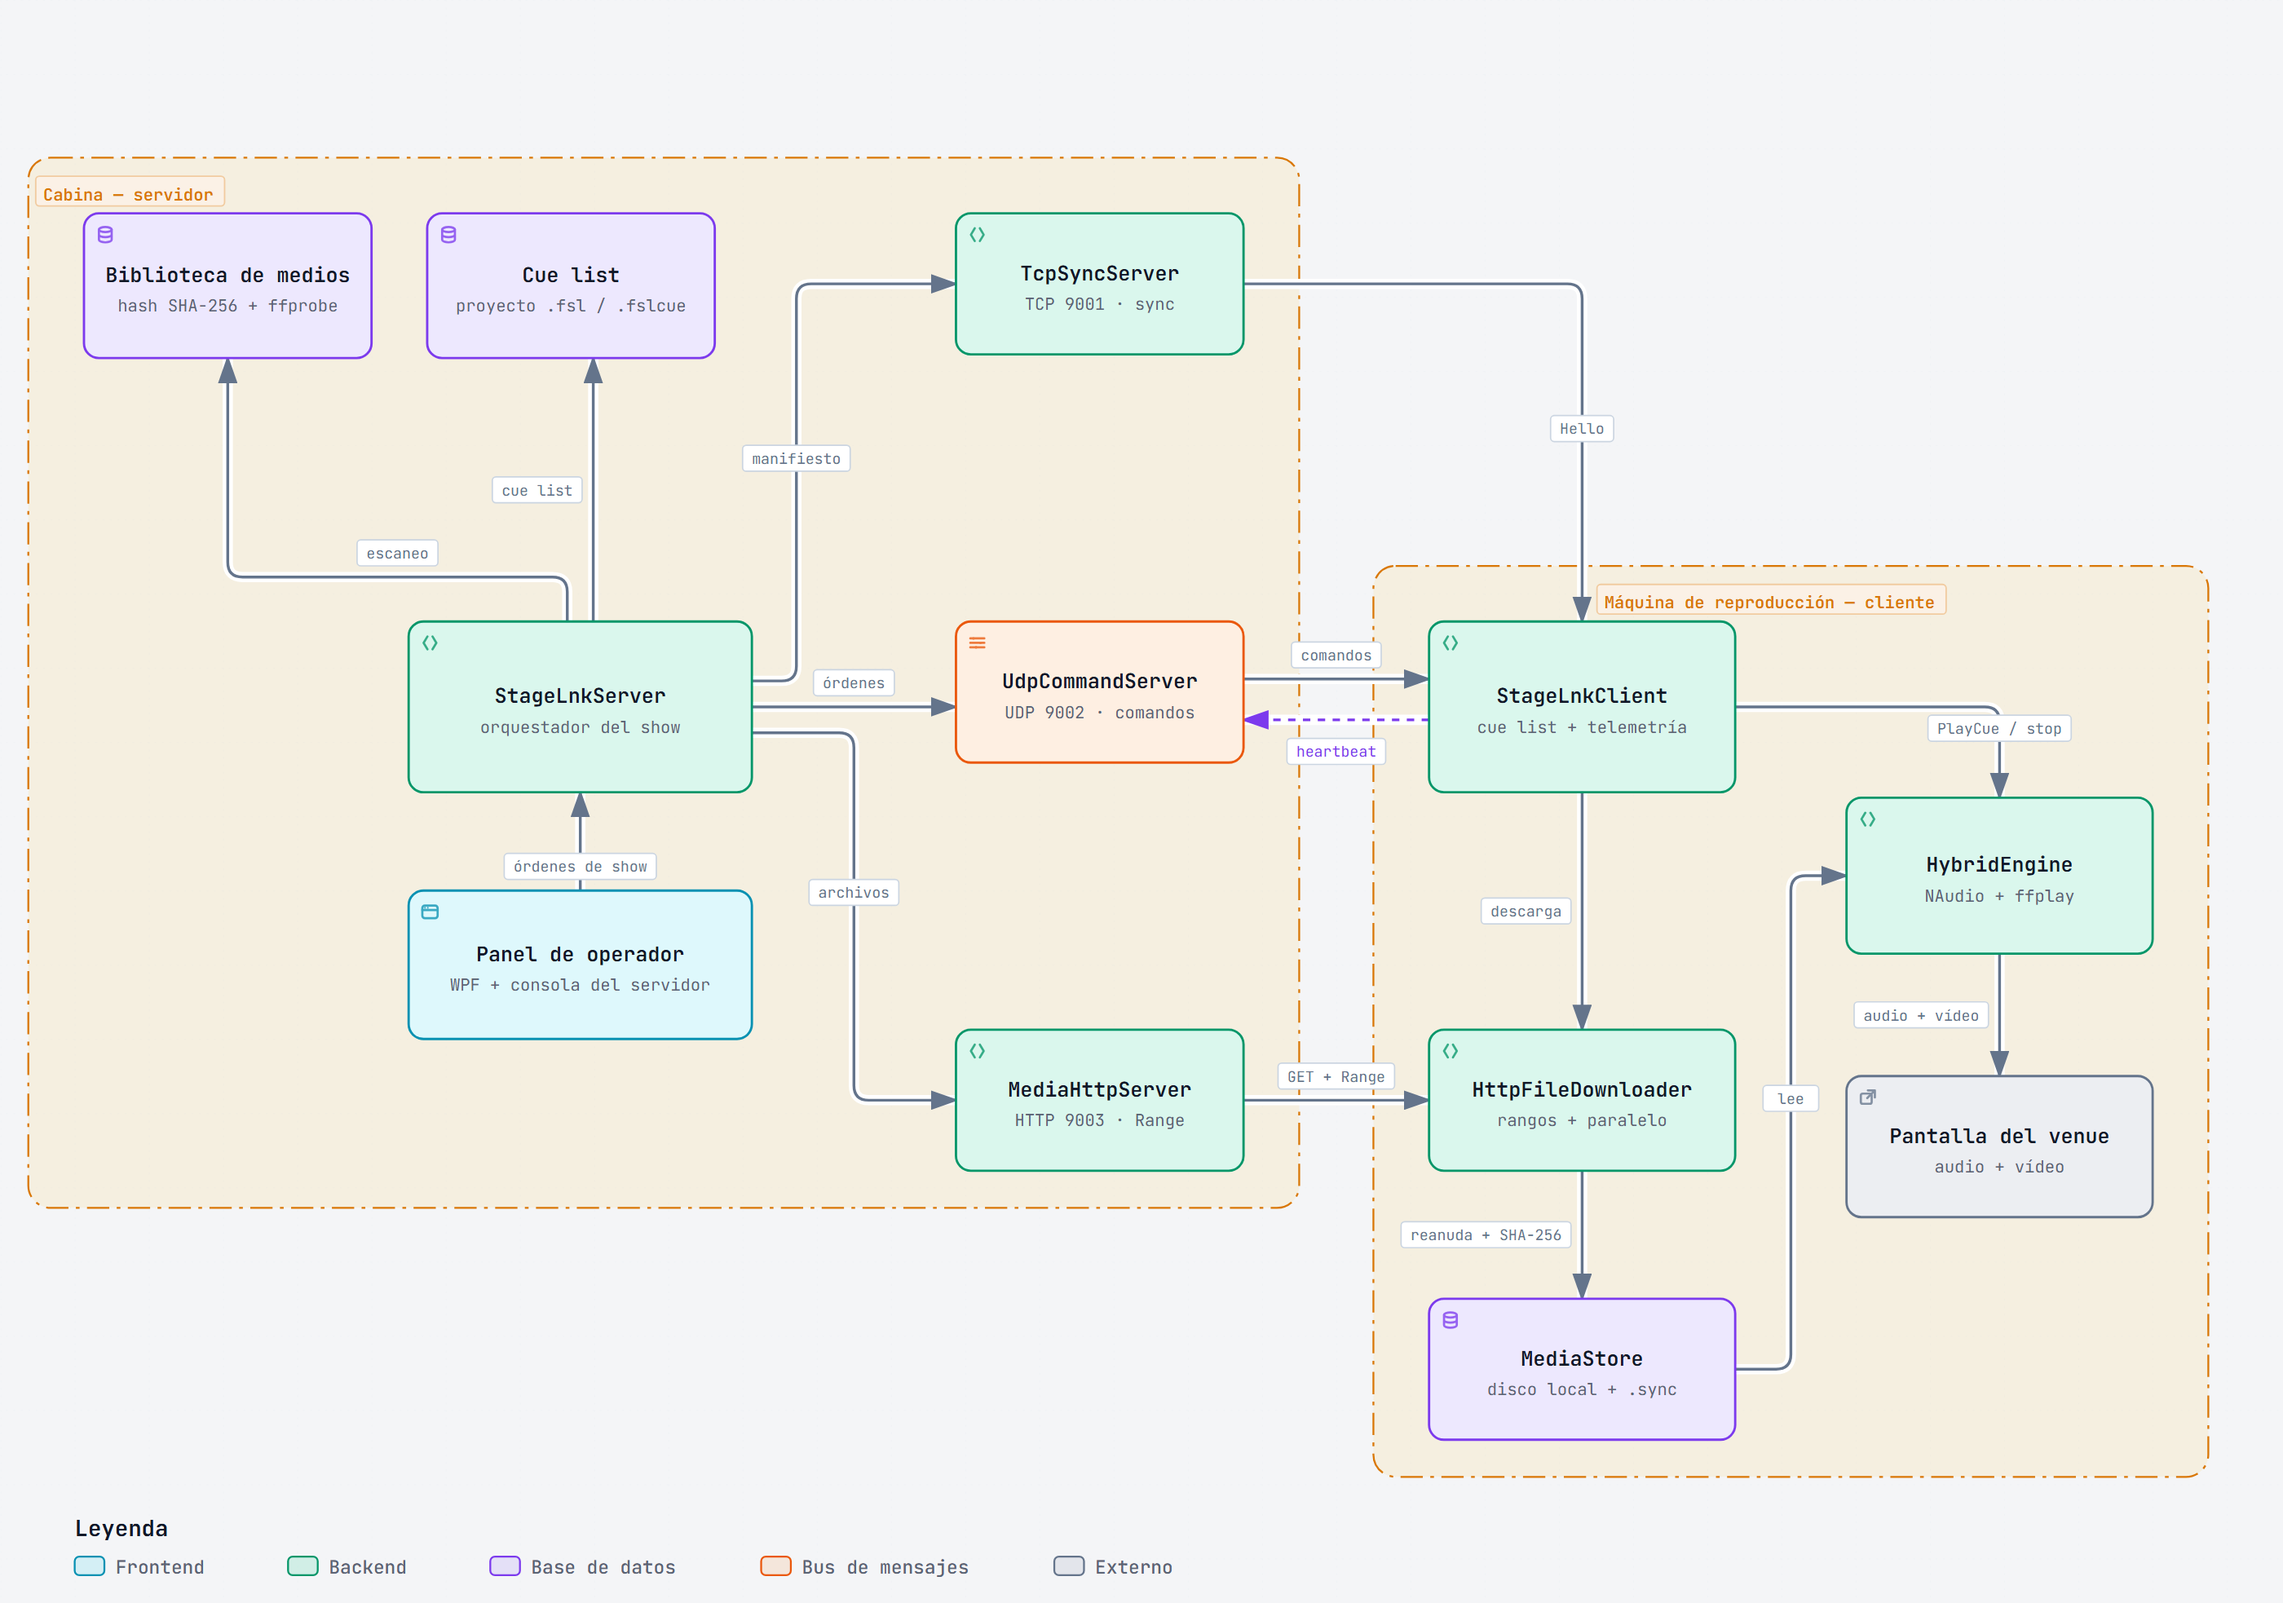
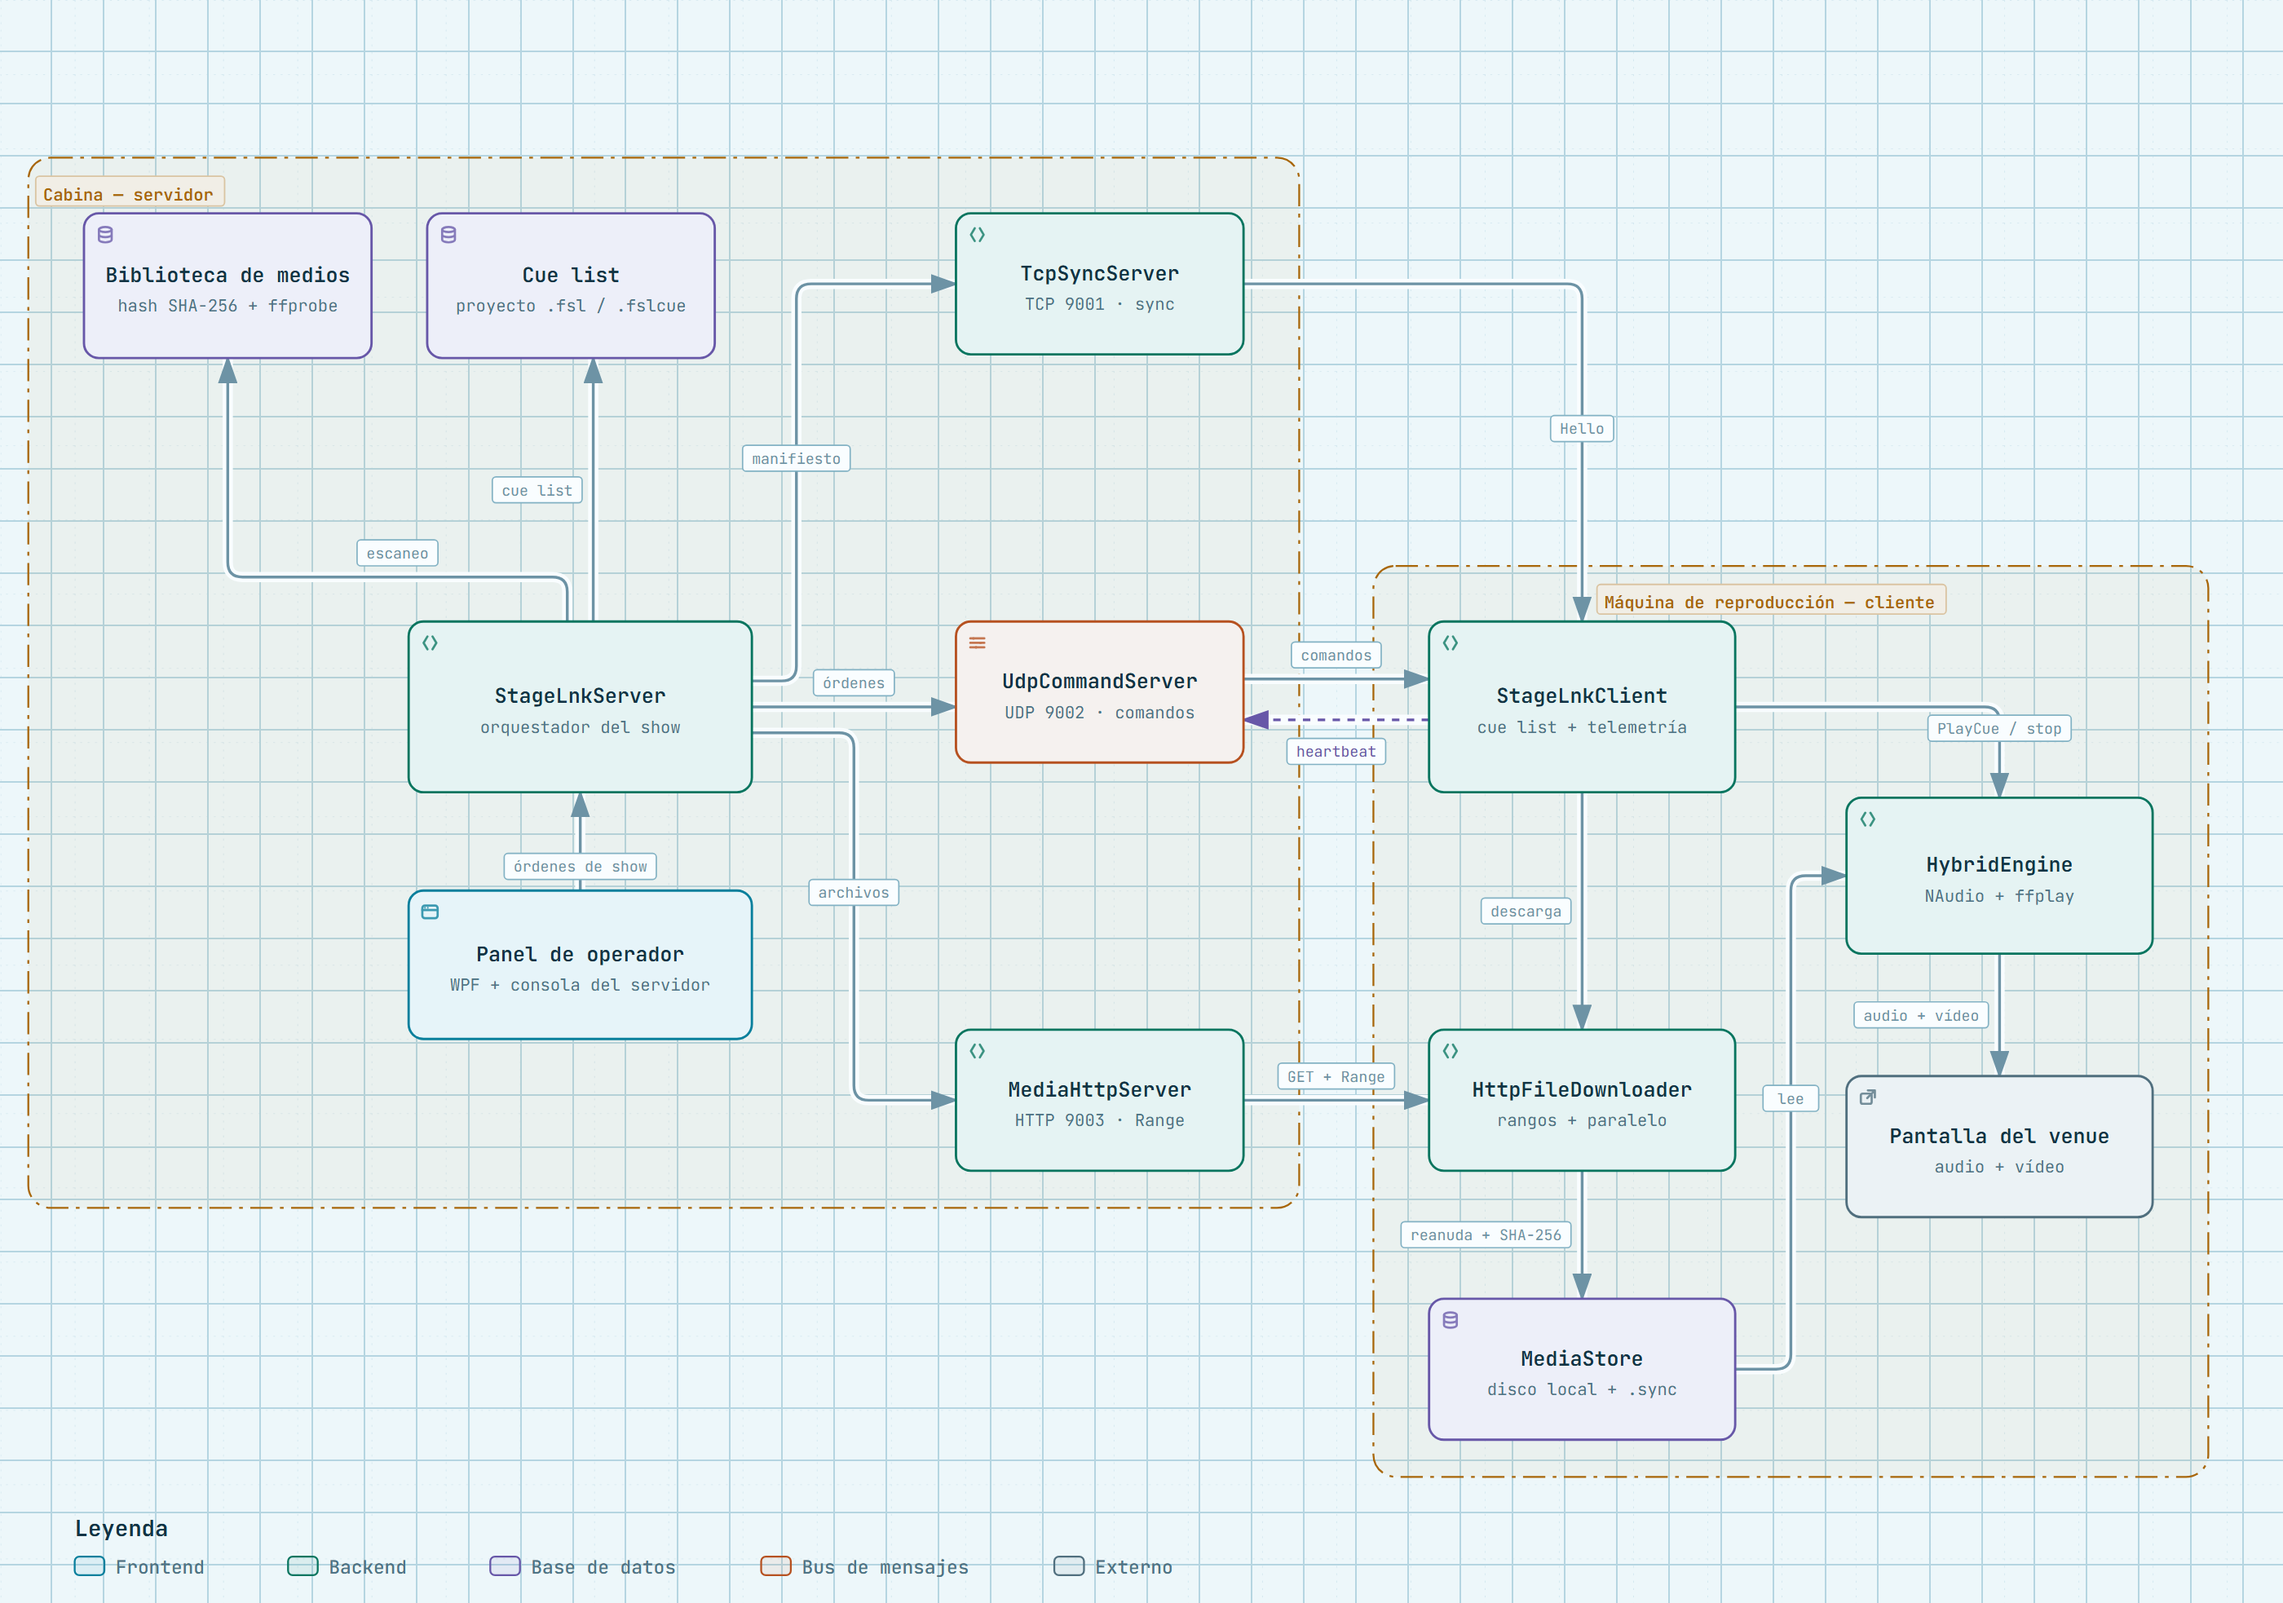
docs: imagen del diagrama con variantes claro/oscuro en el README

diff --git a/README.md b/README.md
@@ -127,7 +127,12 @@ del venue: el operador arma la biblioteca y la cue list, el servidor difunde el 
 **TCP 9001**, el cliente descarga lo que le falta por **HTTP 9003** y reporta telemetría por
 **UDP 9002**.
 
-[![Diagrama de arquitectura de Fedo-StageLnk: panel de operador, StageLnkServer con biblioteca y cue list, canales TCP 9001 / UDP 9002 / HTTP 9003, y el cliente con sincronización, almacén local y motor híbrido hacia la pantalla](docs/arquitectura.png)](docs/arquitectura.html)
+<a href="docs/arquitectura.html">
+  <picture>
+    <source media="(prefers-color-scheme: dark)" srcset="docs/arquitectura-dark.png">
+    <img src="docs/arquitectura.png" alt="Diagrama de arquitectura de Fedo-StageLnk: panel de operador, StageLnkServer con biblioteca y cue list, canales TCP 9001 / UDP 9002 / HTTP 9003, y el cliente con sincronización, almacén local y motor híbrido hacia la pantalla">
+  </picture>
+</a>
 
 > Diagrama interactivo (zoom, búsqueda, temas claro/oscuro y fuentes por nodo):
 > [docs/arquitectura.html](docs/arquitectura.html). Fuente editable del diagrama:
@@ -159,7 +164,8 @@ assets/
 docs/
   README.md                   Este documento
   PROTOCOLO.md                Especificación del protocolo de red
-  arquitectura.png            Diagrama de arquitectura (imagen)
+  arquitectura.png            Diagrama de arquitectura (imagen, tema claro)
+  arquitectura-dark.png       Diagrama de arquitectura (imagen, tema oscuro)
   arquitectura.html           Diagrama de arquitectura interactivo
   arquitectura.fuente.json    Fuente editable del diagrama
 ```
